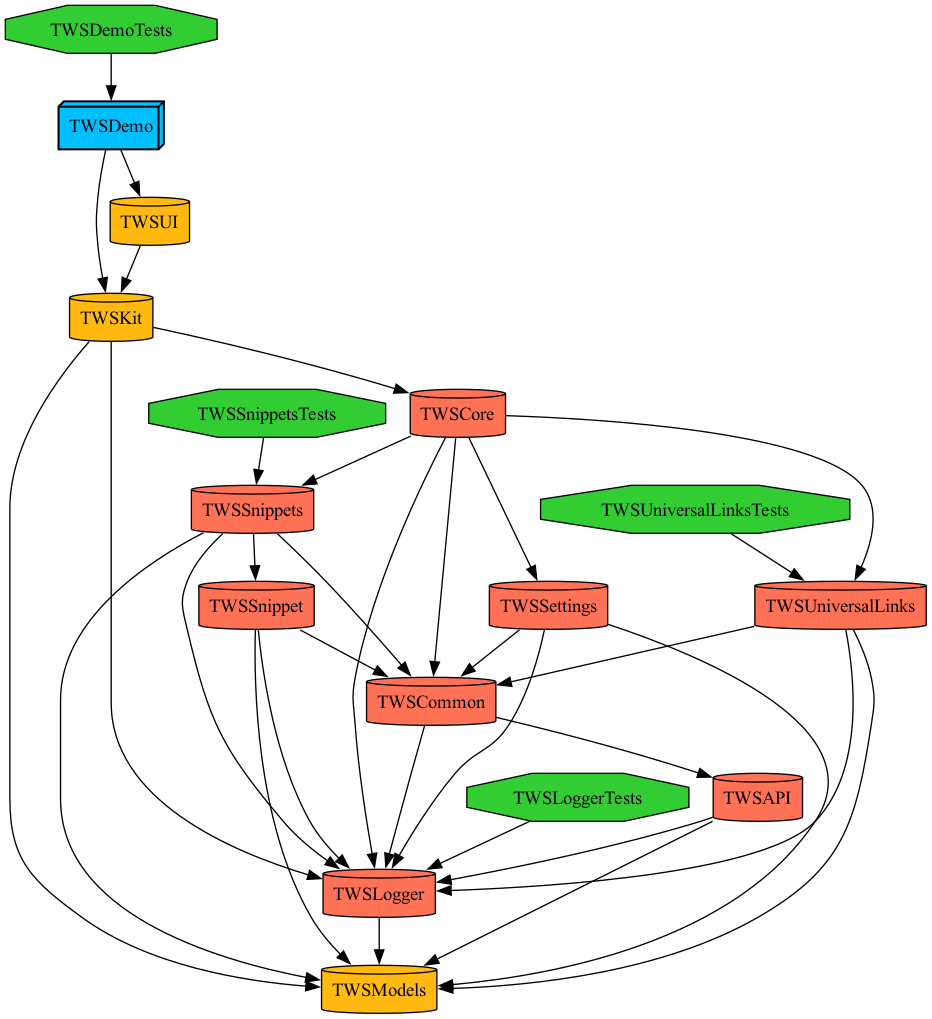
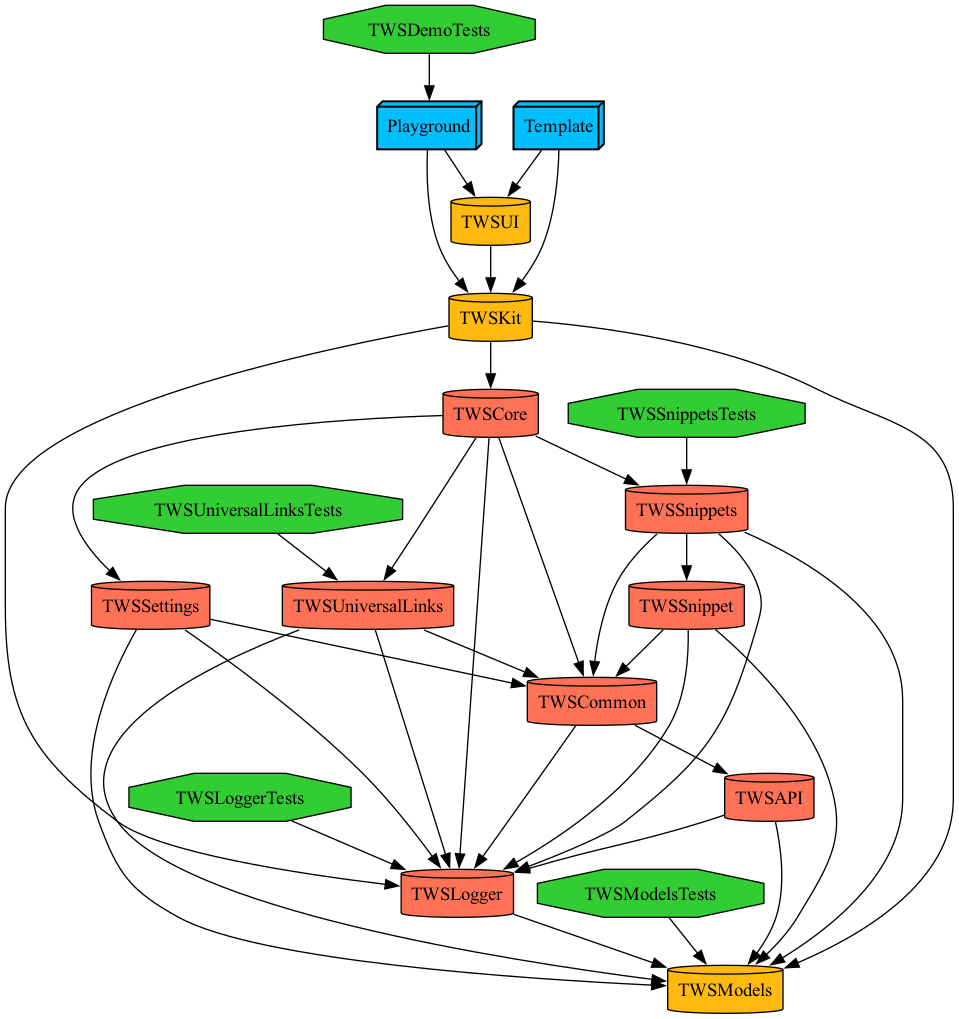
TWS-253: fix: Fixed an issue where a consumer might encounter a scenario where TWSView became stuck while loading; Renamed TWSDemo to Playground
https://inova-it.atlassian.net/browse/TWS-253

diff --git a/Project.swift b/Project.swift
@@ -13,7 +13,7 @@ let project = Project(
     ),
     targets: [
         .target(
-            name: "TWSDemo",
+            name: "Playground",
             destinations: .iOS,
             product: .app,
             bundleId: "com.inova.tws",
@@ -43,6 +43,36 @@ let project = Project(
             )
         ),
         .target(
+            name: "Template",
+            destinations: .iOS,
+            product: .app,
+            bundleId: "com.inova.tws",
+            deploymentTargets: .iOS(deploymentTarget()),
+            infoPlist: .extendingDefault(with: infoPlistTemplate()),
+            sources: ["Submodule_tws-cli-resources/iOS/App/Sources/**"],
+            resources: ["Submodule_tws-cli-resources/iOS/App/Resources/**"],
+            entitlements: getEntitlements(),
+            scripts: targetScriptsTemplate(),
+            dependencies: [
+                .target(name: "TWSKit"),
+                .target(name: "TWSUI")
+//                .xcframework(path: "Submodule_tws-cli-resources/iOS/Frameworks/XCFrameworks/TWSKit.xcframework"),
+//                .xcframework(path: "Submodule_tws-cli-resources/iOS/Frameworks/XCFrameworks/TWSModels.xcframework"),
+//                .xcframework(path: "Submodule_tws-cli-resources/iOS/Frameworks/XCFrameworks/TWSUI.xcframework")
+            ],
+            settings: .settings(
+                configurations: [
+                    .debug(name: "Debug", settings: ["SWIFT_VERSION": "6.0"], xcconfig: .relativeToRoot("config/TWSDemo_dev.xcconfig")),
+                    .release(name: "Staging", settings: ["SWIFT_VERSION": "6.0"], xcconfig: .relativeToRoot("config/TWSDemo_staging.xcconfig")),
+                    .release(name: "Release", settings: ["SWIFT_VERSION": "6.0"], xcconfig: .relativeToRoot("config/TWSDemo_release.xcconfig"))
+                ],
+                defaultSettings: .recommended(excluding: [
+                    "CODE_SIGN_IDENTITY",
+                    "DEVELOPMENT_TEAM"
+                ])
+            )
+        ),
+        .target(
             name: "TWSDemoTests",
             destinations: .iOS,
             product: .unitTests,
@@ -51,7 +81,7 @@ let project = Project(
             infoPlist: .default,
             sources: ["TWSDemoTests/Sources/**"],
             dependencies: [
-                .target(name: "TWSDemo")
+                .target(name: "Playground")
             ],
             settings: .settings(
                 configurations: [
@@ -419,13 +449,22 @@ let project = Project(
     ],
     schemes: [
         .scheme(
-            name: "TWSDemo",
-            buildAction: .buildAction(targets: ["TWSDemo"]),
+            name: "Playground",
+            buildAction: .buildAction(targets: ["Playground"]),
             testAction: .targets(["TWSDemoTests", "TWSSnippetsTests", "TWSLoggerTests", "TWSUniversalLinksTests", "TWSModelsTests"]),
             runAction: .runAction(),
-            archiveAction: .archiveAction(configuration: "TWSDemo"),
+            archiveAction: .archiveAction(configuration: "Playground"),
             profileAction: .profileAction(),
-            analyzeAction: .analyzeAction(configuration: "TWSDemo")
+            analyzeAction: .analyzeAction(configuration: "Playground")
+        ),
+        .scheme(
+            name: "Template",
+            buildAction: .buildAction(targets: ["Template"]),
+            testAction: .targets([]),
+            runAction: .runAction(),
+            archiveAction: .archiveAction(configuration: "Template"),
+            profileAction: .profileAction(),
+            analyzeAction: .analyzeAction(configuration: "Template")
         )
     ]
 )
@@ -459,6 +498,21 @@ func infoPlist() -> [String: Plist.Value] {
         "NSLocalNetworkUsageDescription": "Atlantis would use Bonjour Service to discover Proxyman app from your local network.",
         "NSBonjourServices": ["_Proxyman._tcp"]
     ]
+}
+
+func infoPlistTemplate() -> [String: Plist.Value] {
+    var dict = infoPlist()
+    dict.merge(
+        [
+            "TWSOrganizationID": "inova.tws",
+            "TWSProjectId": "4166c981-56ae-4007-bc93-28875e6a2ca5"
+        ],
+        uniquingKeysWith: { _, _ in
+            fatalError("Duplicate keys in info.plist template")
+        }
+    )
+
+    return dict
 }
 
 func loggerInfoPlist() -> [String: Plist.Value] {
@@ -550,6 +604,22 @@ func targetScripts() -> [TargetScript] {
                 "$(TARGET_BUILD_DIR)/$(UNLOCALIZED_RESOURCES_FOLDER_PATH)/GoogleService-Info.plist",
                 "$(TARGET_BUILD_DIR)/$(EXECUTABLE_PATH)"
             ],
+            basedOnDependencyAnalysis: false
+        )
+    ]
+}
+
+func targetScriptsTemplate() -> [TargetScript] {
+    [
+        .pre(
+            script: #"""
+            if $HOME/.local/bin/mise x -- which swiftlint > /dev/null; then
+                $HOME/.local/bin/mise x -- swiftlint;
+            else
+                echo "warning: SwiftLint not installed, download from https://github.com/realm/SwiftLint";
+            fi
+            """#,
+            name: "SwiftLint",
             basedOnDependencyAnalysis: false
         )
     ]

diff --git a/TWSKit/Sources/TWSKit.swift b/TWSKit/Sources/TWSKit.swift
@@ -22,6 +22,7 @@ public final class TWSManager: Identifiable {
     private let initDate: Date
     private let _id = UUID().uuidString.suffix(4)
     private var _stateSync: AnyCancellable?
+    private var isSetup = false
 
     init(
         store: StoreOf<TWSCoreFeature>,
@@ -67,6 +68,8 @@ public final class TWSManager: Identifiable {
     /// A function that starts loading snippets and listen for changes
     public func run() {
         precondition(Thread.isMainThread, "`run()` can only be called on main thread")
+        defer { isSetup = true }
+        guard !isSetup else { return }
         store.send(.snippets(.business(.load)))
     }
 

diff --git a/TWSKit/Sources/Views/WebView/TWSView.swift b/TWSKit/Sources/Views/WebView/TWSView.swift
@@ -35,7 +35,7 @@ public struct TWSView: View {
     public init(
         snippet: TWSSnippet,
         displayID id: String,
-        info: Bindable<TWSViewInfo> = .init(.init()),
+        info: Bindable<TWSViewInfo> = .init(.init(loadingState: .loaded)),
         cssOverrides: [TWSRawCSS] = [],
         jsOverrides: [TWSRawJS] = []
     ) {
